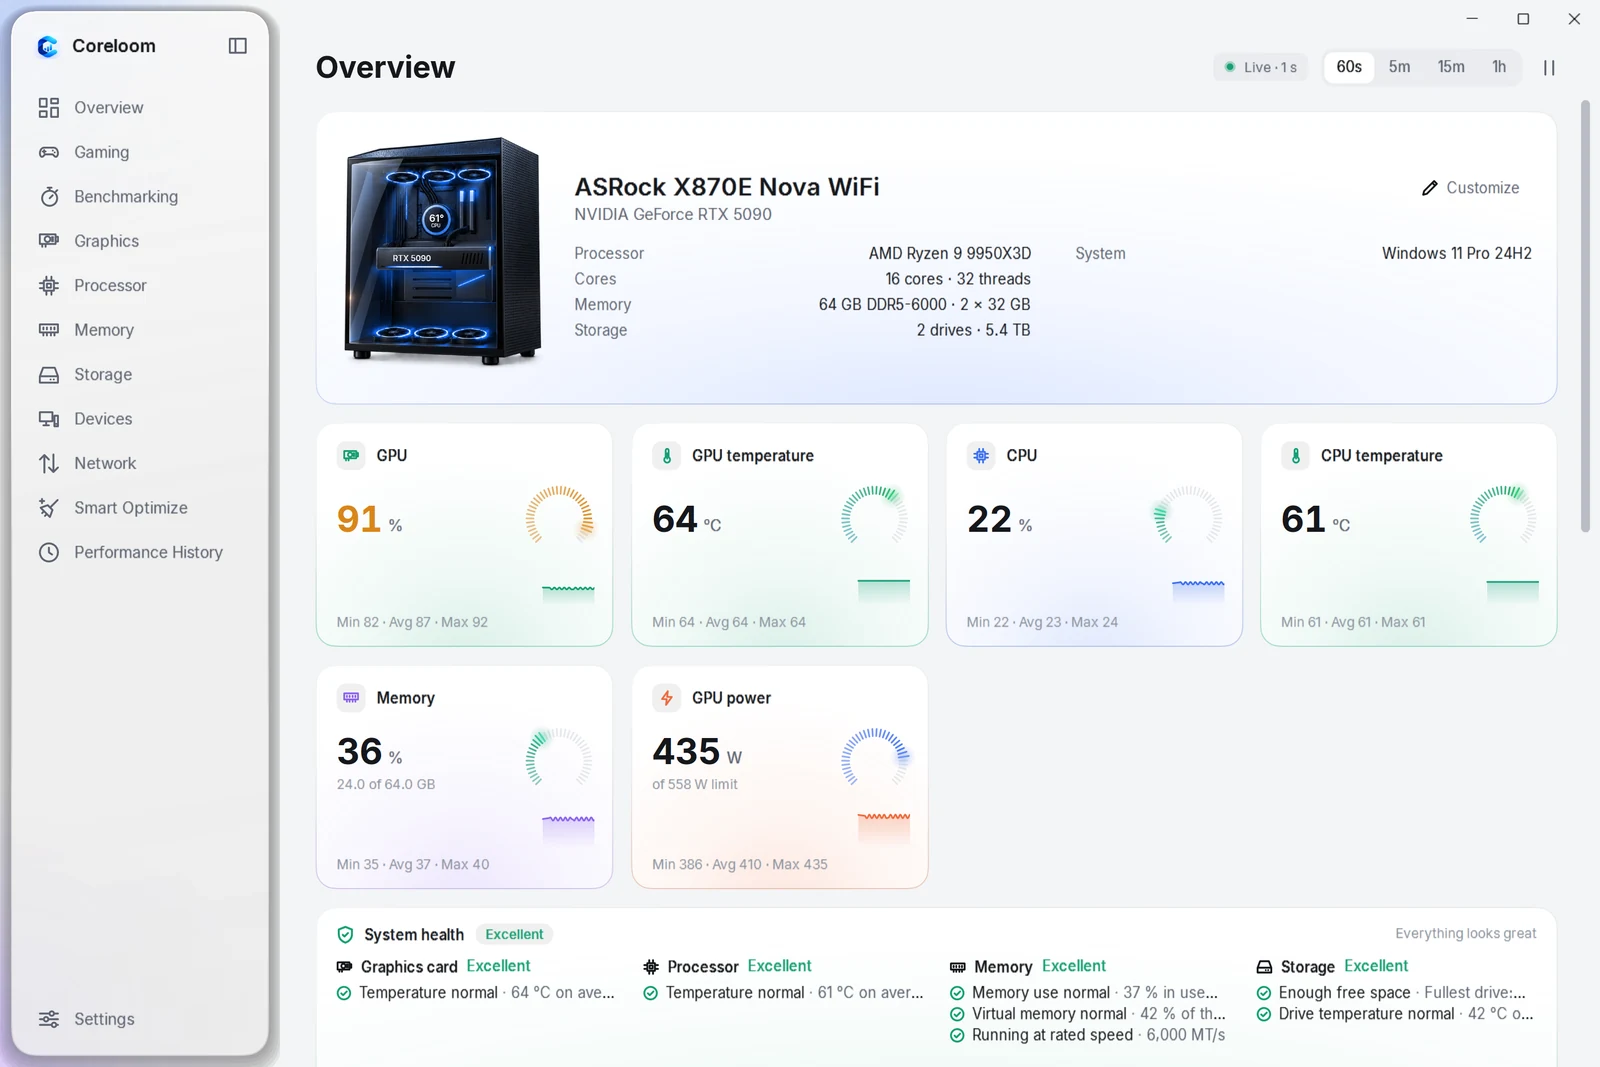
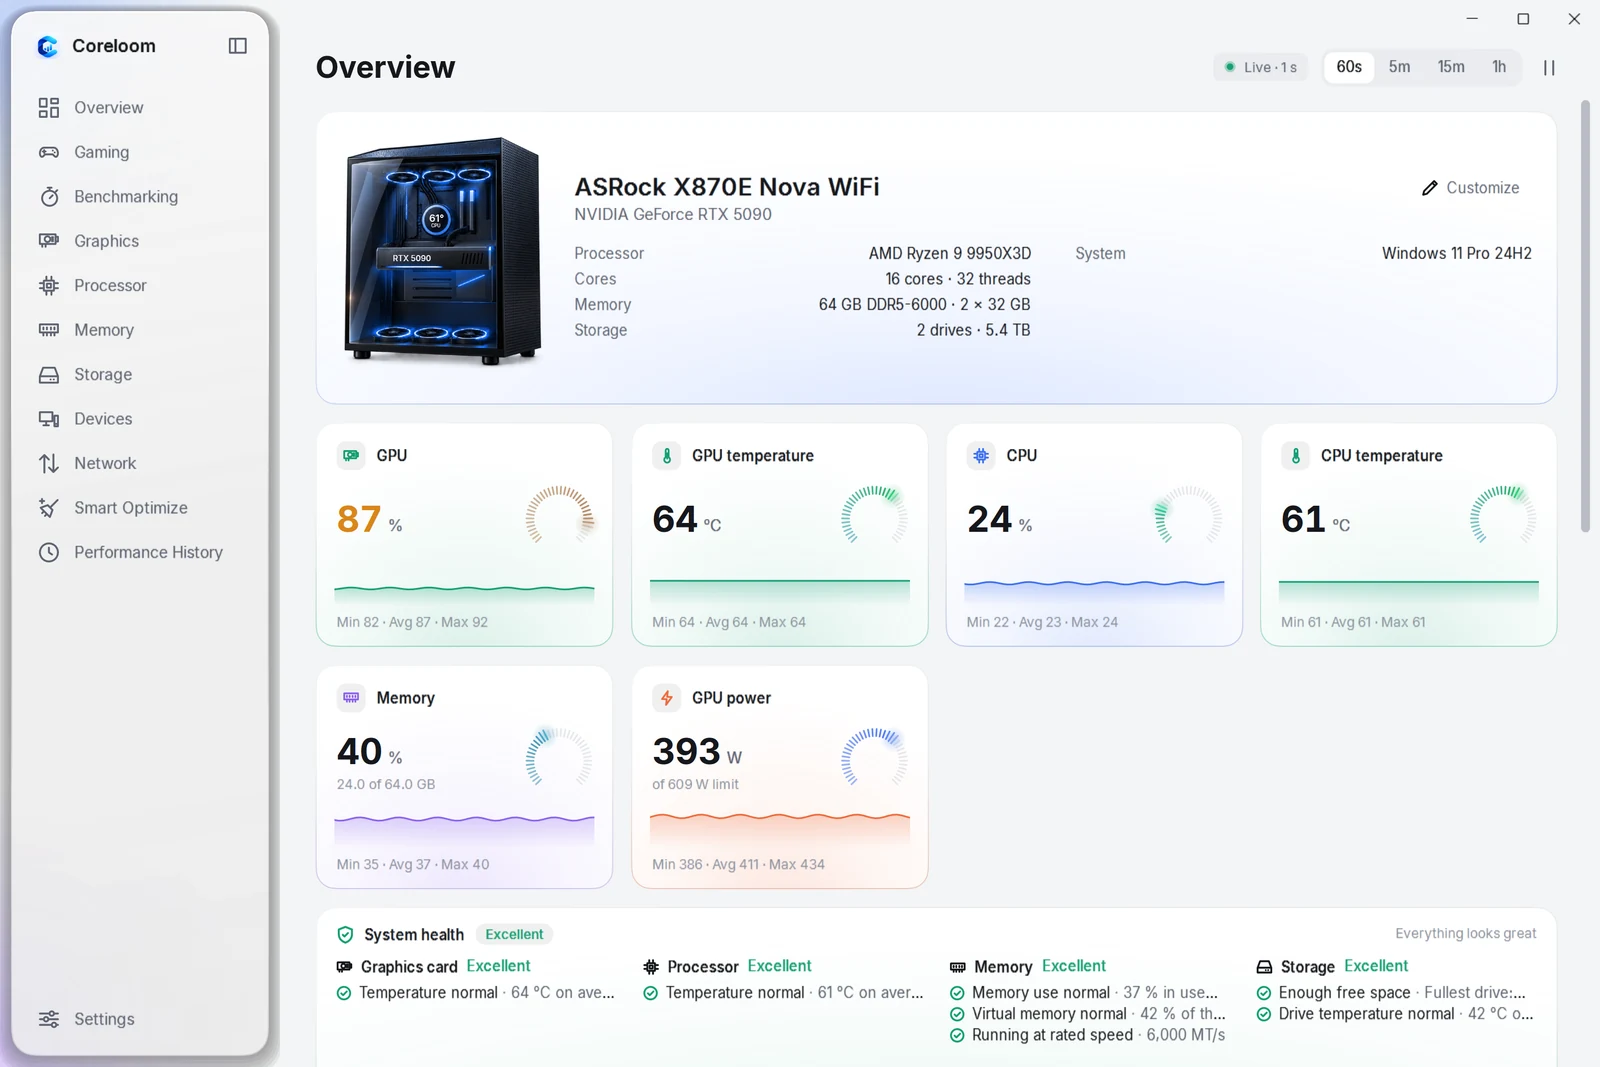
1.8.1: verification notes; a little more room after a menu bar reading's name
Claude-Session: https://claude.ai/code/session_01KSkAPnRycRxeooZjZu2bHo

diff --git a/src/Coreloom.Mac/Controls/MenuBarModuleRenderer.cs b/src/Coreloom.Mac/Controls/MenuBarModuleRenderer.cs
@@ -21,6 +21,7 @@ public static class MenuBarModuleRenderer
     private const double ValueSize = 12.5;
     private const double SmallSize = 9;
     private const double Gap = 3;
+    private const double LabelGap = 4;
     private const double GaugeWidth = 4.5;
     private const double GaugeHeight = 15;
 
@@ -46,7 +47,7 @@ public static class MenuBarModuleRenderer
                 top += letter.Height * 0.86;
             }
 
-            x += layout.LabelWidth + 2;
+            x += layout.LabelWidth + LabelGap;
         }
 
         if (layout.Second is { } second)
@@ -129,7 +130,7 @@ public static class MenuBarModuleRenderer
         var value = Text(reading.Value, face, size);
         var second = twoLines ? Text(reading.SecondLine!, Regular, SmallSize) : null;
         double valueWidth = Math.Max(Math.Max(value.Width, second?.Width ?? 0), Text(Widest(reading.Id), face, size).Width);
-        double width = 1 + (letters is null ? 0 : labelWidth + 2) + valueWidth + (reading.Fraction is null ? 0 : Gap + GaugeWidth);
+        double width = 1 + (letters is null ? 0 : labelWidth + LabelGap) + valueWidth + (reading.Fraction is null ? 0 : Gap + GaugeWidth);
         return new Measured(letters, labelWidth, value, second, valueWidth, width);
     }
 }

diff --git a/docs/VERIFICATION.md b/docs/VERIFICATION.md
@@ -830,6 +830,28 @@ unchanged.
 - The five-second messages on real Windows and Mac windows: the timer is tested, and each page's view model, but
   nobody has watched them leave in the apps yet.
 
+## 1.8.1: menu bar readings, the MacBook with your wallpaper, the window buttons in the glass, renaming, the update button
+
+### Verified
+
+| What | How | Result |
+|---|---|---|
+| Tests | Core (`Release181Tests`: Bluetooth names kept, trimmed and capped; menu bar modules in order, none shown at first, repaired when edited; the Mac's compute scores ×10 with older results converted once) and view models (`Release181ViewModelTests`: rename, Enter/Esc/empty/reset, re-sorting and search by either name, the low-battery line with the given name; menu bar readings in Settings' order with bars and names as chosen, the fastest fan, only new readings published; the desktop picture choice; *What's new* chips and "Released … · N changes"; `UpdatesViewModelTests` for *New update available*) | ✅ in the container and on GitHub (CI run 40793590164: Windows Core 741, view models 205, Hardware 82 + 1 skipped timer test; Linux; macOS 188 on Intel, 187 + 1 skipped on Apple silicon) |
+| The window buttons inside the sidebar's glass | The real app on GitHub's Macs (Mac verify run 40793593475): the log line two seconds after launch gives the buttons' frames and what a click near the top reaches. Narrow sidebar (Apple silicon, 1024 × 768): glass at 10,10, close/minimize/zoom at 21/41/61, 22 from the top (centred across the glass, 30 below the window's top); wide (Intel, 1920 × 1080): 26/46/66, 22, with the collapse button's centre at (220, 31) on their line. The collapse button, the first page, the range picker and Freeze all reach Coreloom's view (AvnView), and so does the glass's top edge. Screenshots show the lights inside the glass, left-aligned, in light mode | ✅ Apple silicon and Intel |
+| Menu bar readings | Mac verify run 40793593475 turns on Processor, Memory and Network in the saved settings and reopens Coreloom: the log says "Readings in the menu bar: cpu, memory, network", and the screenshot shows three items of their own beside Spotlight and the clock (CPU with its bar, MEM with its bar, NET with ↓/↑ on two lines), drawn black on the light menu bar as template images | ✅ Apple silicon and Intel |
+| Settings › Menu bar, the Overview's MacBook, rename, *What's new*, Customize | MacShots (0 binding errors): the module list with live values and "Not on this Mac", the preview strip; the MacBook at 204 points centred in its column with a sample desktop picture (`--wallpaper`) and with Coreloom's picture (Blue and Rainbow), dark and light; the Customize toggle and the conic rainbow swatch; a Bluetooth card being renamed and one with a given name; Settings › Updates with 1.8.1's notes as the update | ✅ |
+| Windows window | Page shots run 40794081756 now draw the whole WPF window (sidebar and page, 1440 × 960 at 2×): Overview dark and light, Gaming, Smart Optimize, and Settings › Updates with an update waiting: the red dot on Settings, the gradient *New update available · Coreloom 1.8.1* button with its glow, and the new *What's new* card | ✅ |
+| Website | Playwright (Chromium) against the page served locally, as a Mac and a Windows visitor (user agent), dark and light, 1440 and 390 px wide: the right hero picture, download, wording and install steps for each; "See it on…" switches; no horizontal scrolling at 390 px; the phones in their mockups; no console errors | ✅ |
+
+### Not verified yet
+
+- **Liquid Glass.** Not used: Apple's `NSGlassEffectView` needs macOS 26, and GitHub's Macs run macOS 15, so it couldn't be tried. The sidebar stays Coreloom's own glass (with the desktop's vibrancy through it when translucent).
+- **Your desktop picture on a real Mac.** The runners' default picture isn't photographed (GitHub's Macs show a black desktop), so the MacBook's screen has only shown a sample picture in MacShots. Dynamic and Aerial wallpapers, a picture in Downloads (*Show it* and macOS's question) and changing the picture while Coreloom runs haven't been tried.
+- **The window buttons over time.** Placed again every 250 ms when AppKit moves them back; resizing, full screen and switching Spaces on a real Mac haven't been watched.
+- **Menu bar readings on a dark menu bar, ⌘-drag ordering and the items' menu** (the menu's actions are wired to *Open Coreloom*, *Menu Bar Settings…* and *Quit*; not clicked on a runner).
+- **Bluetooth renaming on real devices** (the names are Coreloom's; the system's Bluetooth settings keep theirs) and clicking out of search boxes in the real apps.
+- **The Mac's GPU compute scores** on real Apple silicon: ten times what 1.8.0 showed; how they compare with the graphics scores on a real M-series GPU isn't known yet.
+
 ## How to re-run the checks that can run anywhere
 
 ```bash
